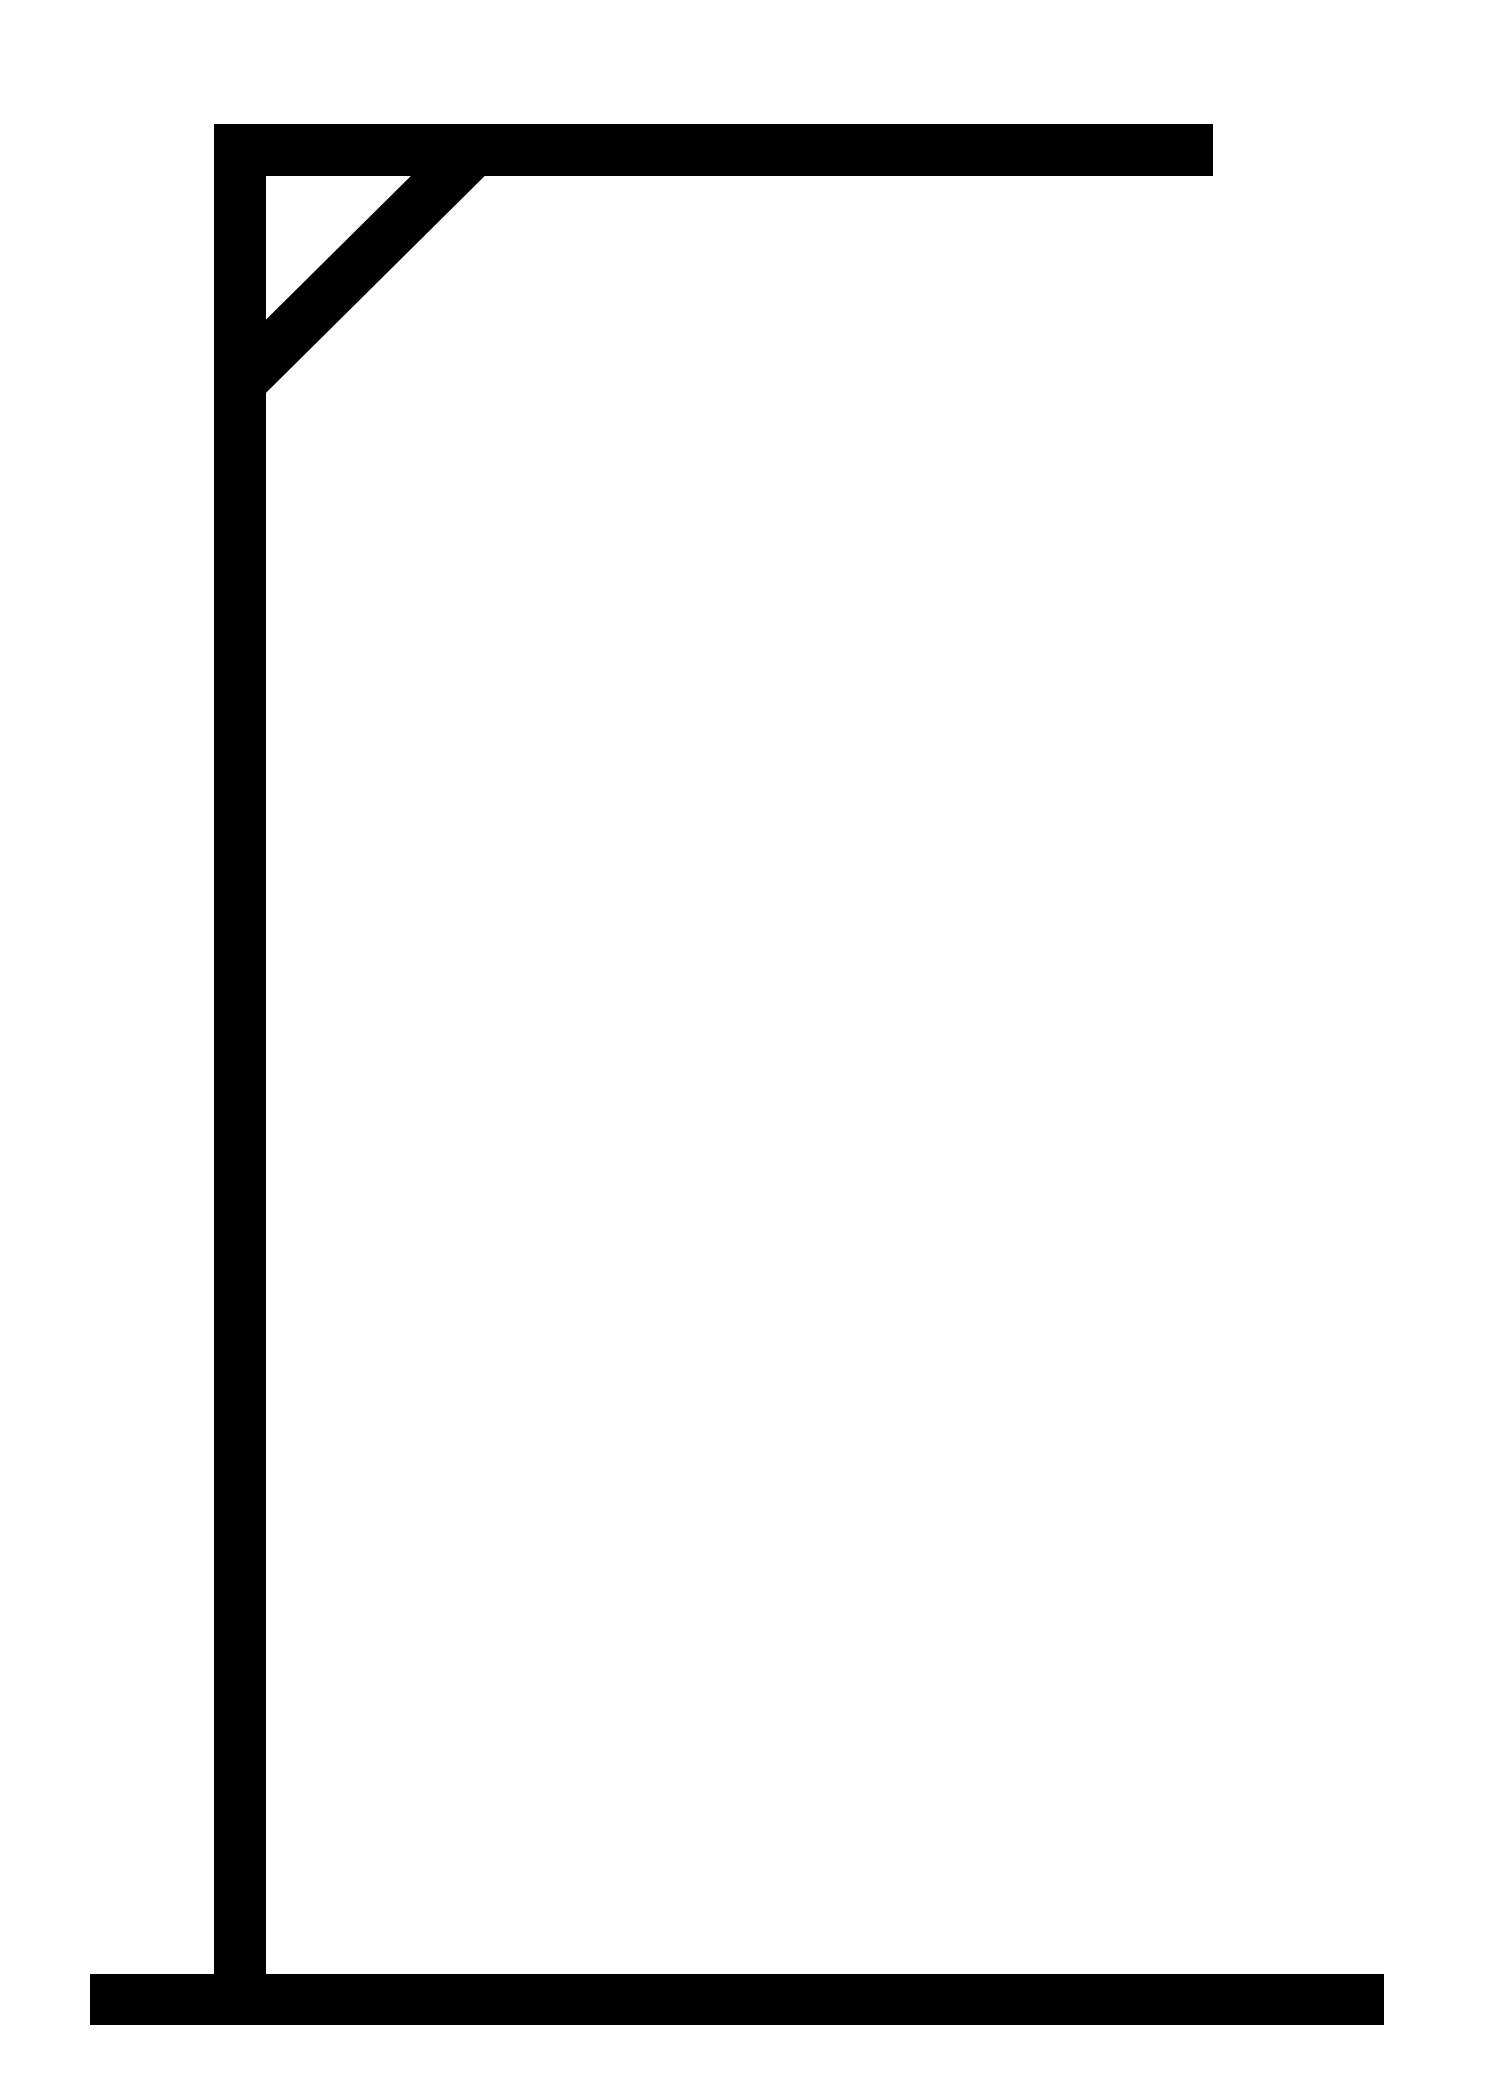
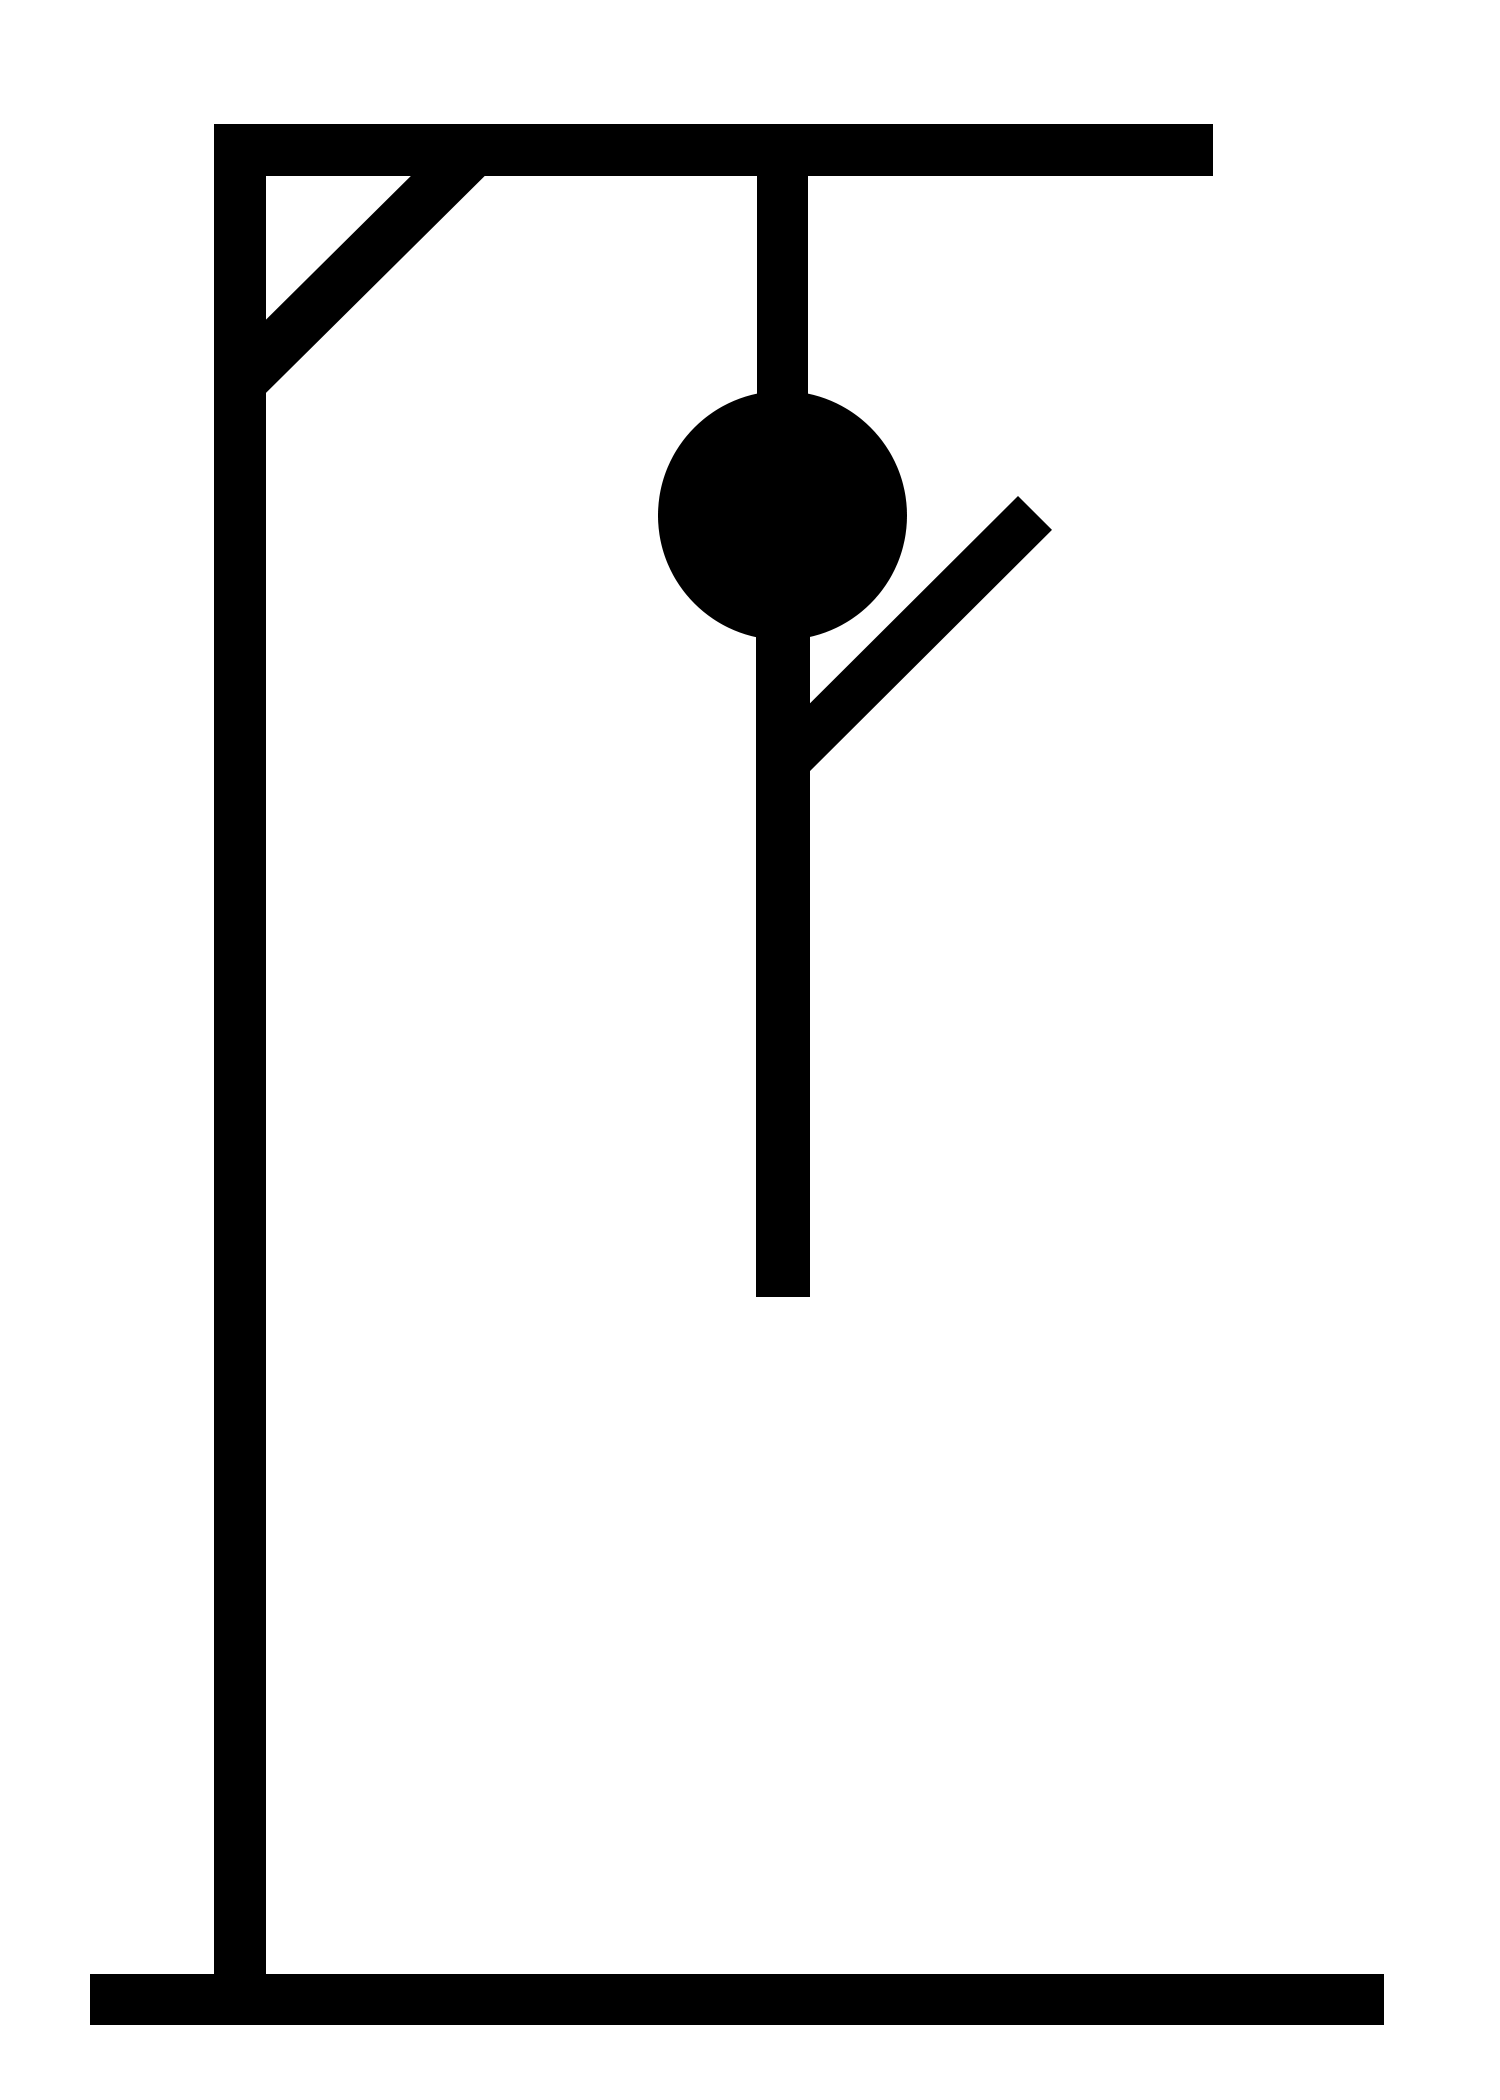
Added images and added ability for different images to show depending on guesses left

Changed region(s): [[0.4293, 0.0619, 0.7053, 0.619]]

diff --git a/index.html b/index.html
@@ -16,20 +16,43 @@
 </head>
 <body>
 
+
     <div class="container">
         <div class="row">
-            <div class="col-lg-8">
-                <p id="wins"></p>
-                <p id="losses"></p>
-                <p id="category"></p>
-                <p id="word"></p>
+            <div class="col-lg-12">
+                <h1>HANGMAN</h1>
+            </div>
+        </div>
+        <div class="row">
+            <div class="col-lg-8 hangman">
+                <img src="" alt="" id="hangmanImage">
+            </div>
+            <div class="col-lg-4">
+                <div class="row">
+                    <div class="col-lg-12">
+                        <p>Your Category Is: <span id="category"></span></p>
+                    </div>
+                </div>
+                <div class="row">
+                    <div class="col-lg-12">
+                        <p>Number of Wins: <span id="wins">0</span></p>
+                    </div>
+                </div>
+                <div class="row">
+                    <div class="col-lg-12">
+                        <p>Number of Losses: <span id="losses">0</span></p>
+                    </div>
+                </div>
                 <p id="guessedLetters"></p>
                 <button id='newGame'>Start A New Game</button>
             </div>
         </div>
+        <div class="row">
+            <div class="col-lg-12">
+                <p id="word">Press Start a New Game to Play</p>
+            </div>
+        </div>
     </div>
-    
-
 
     <script src="./assets/javascript/game.js"></script>
 </body>

diff --git a/assets/javascript/game.js b/assets/javascript/game.js
@@ -4,7 +4,7 @@ var guessGame = {
     letters: ['a','b','c','d','e','f','g','h','i','j','k','l','m','n','o','p','q','r','s','t','u','v','w','x','y','z'],
     wins: 0,
     losses: 0,
-    guessesLeft: 0,
+    guessesLeft: 10,
     wordBlanks: [],
     chosenWord: [],
     chosenCategory: '',
@@ -74,6 +74,8 @@ var guessGame = {
         }else{
             $('#category').text(guessGame.chosenCategory.charAt(0).toUpperCase() + guessGame.chosenCategory.slice(1));
         }
+
+        $("#hangmanImage").attr("src", './assets/images/' + this.guessesLeft.toString() + '.png');
     },
     guessLetter: function(letter){
         if(!this.guessedLetters.includes(letter.toUpperCase())){
@@ -101,15 +103,19 @@ var guessGame = {
         $(document).unbind("keypress");
         if(str === 'win'){
             this.wins++;
+            this.updatePage();
             $('#newGame').show();
         }else if(str === 'loss'){
             this.losses++;
+            this.updatePage();
             $('#newGame').show();
         }
     }
 };
 
 $(document).ready(function() {
+
+    $("#hangmanImage").attr("src", './assets/images/' + guessGame.guessesLeft.toString() + '.png');
 
     $('#newGame').on('click', function(){
         guessGame.startGame(10);

diff --git a/assets/css/style.css b/assets/css/style.css
@@ -1,3 +1,23 @@
 * {
     box-sizing: border-box;
 }
+
+body {
+    background-color: grey;
+}
+
+#hangmanImage {
+    width: 100%;
+    height: auto;
+}
+
+.hangman {
+    height: 100%;
+    border: 2px solid black;
+}
+
+#word {
+    width: 100%;
+    font-size: 4em;
+    font-weight: bold;
+}
